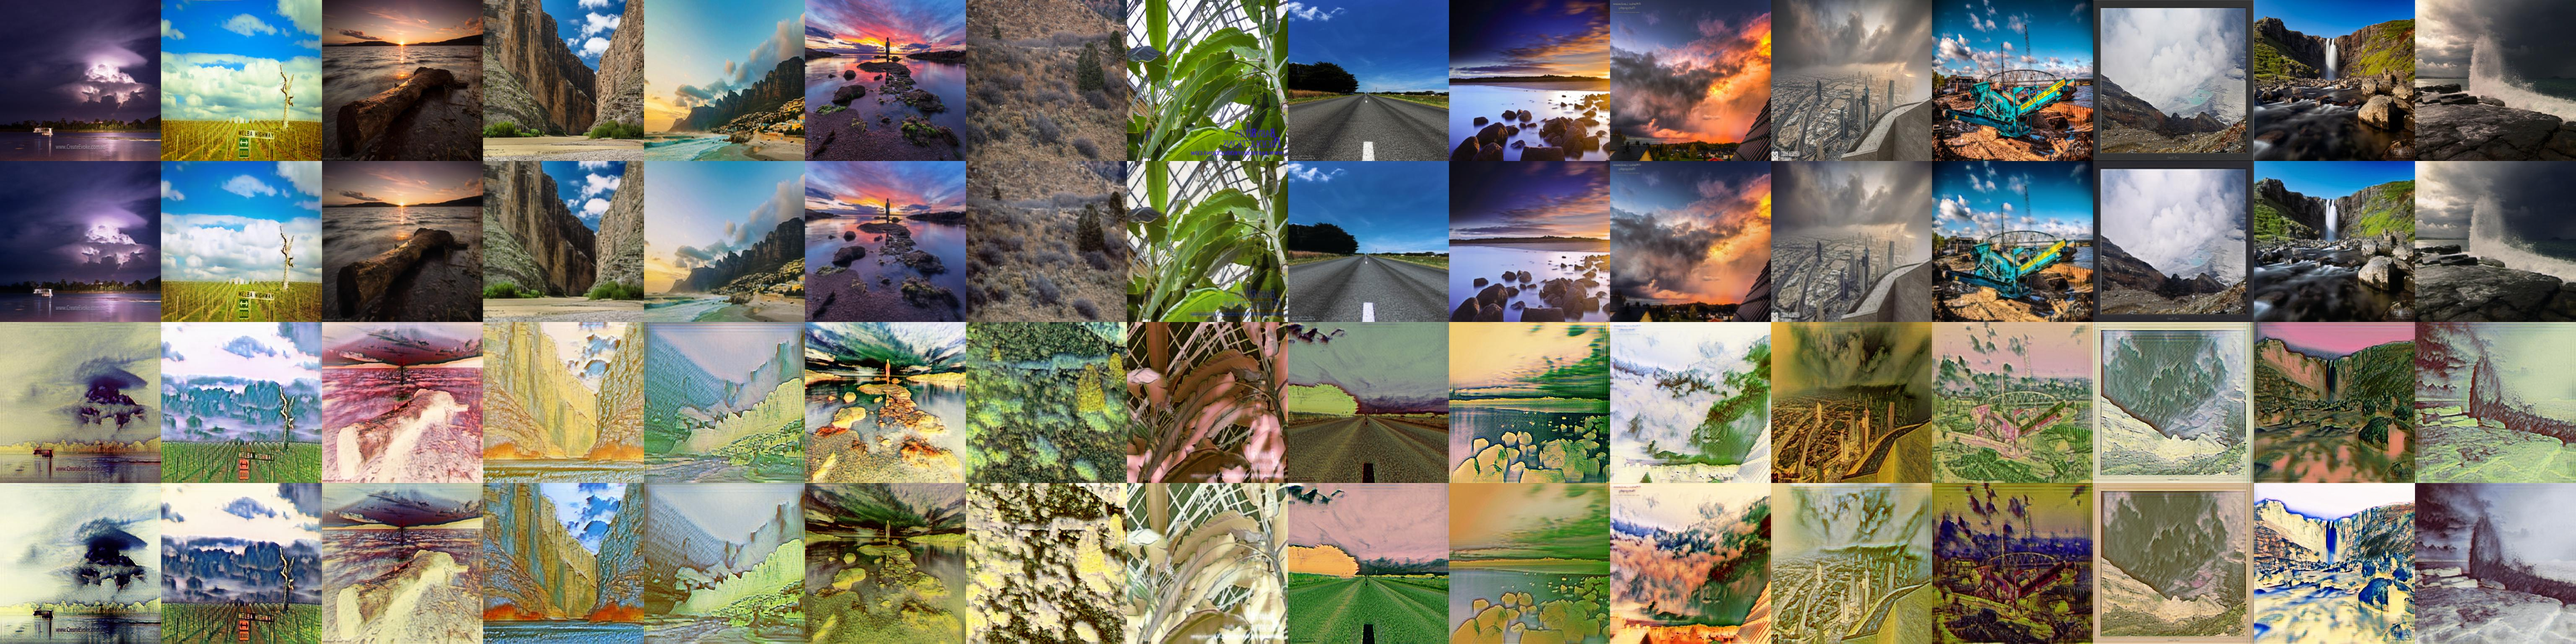
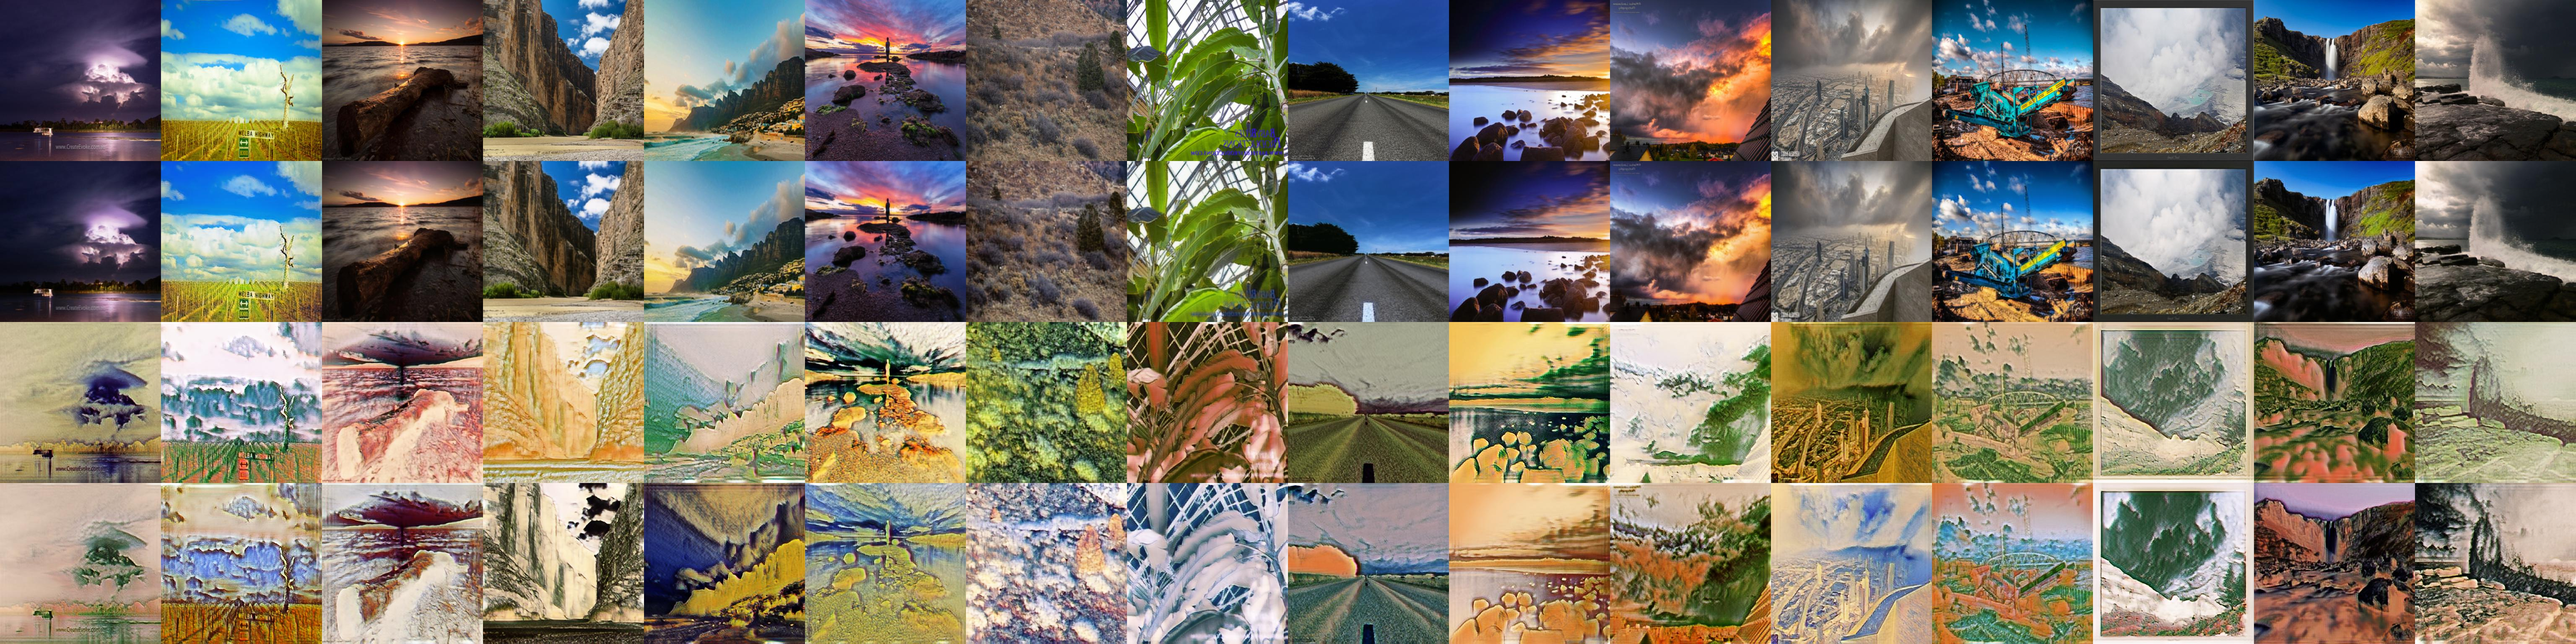
todo

diff --git a/model/mixlow_model.py b/model/mixlow_model.py
@@ -57,10 +57,10 @@ params = {
 'step_size': 100000,             # how often to decay learning rate
 'gamma': 0.5,                    # how much to decay learning rate
 'gan_w': 1,                      # weight of adversarial loss
-'recon_x_w': 10,                 # weight of image reconstruction loss
-'recon_s_w': 1,                  # weight of style reconstruction loss
-'recon_c_w': 1,                  # weight of content reconstruction loss
-'recon_x_cyc_w': 1,              # weight of explicit style augmented cycle consistency loss
+'recon_x_w': 8,                  # weight of image reconstruction loss
+'recon_s_w': 2,                  # weight of style reconstruction loss
+'recon_c_w': 2,                  # weight of content reconstruction loss
+'recon_x_cyc_w': 2,              # weight of explicit style augmented cycle consistency loss
 'vgg_w': 0,                      # weight of domain-invariant perceptual loss
 
 # model options
